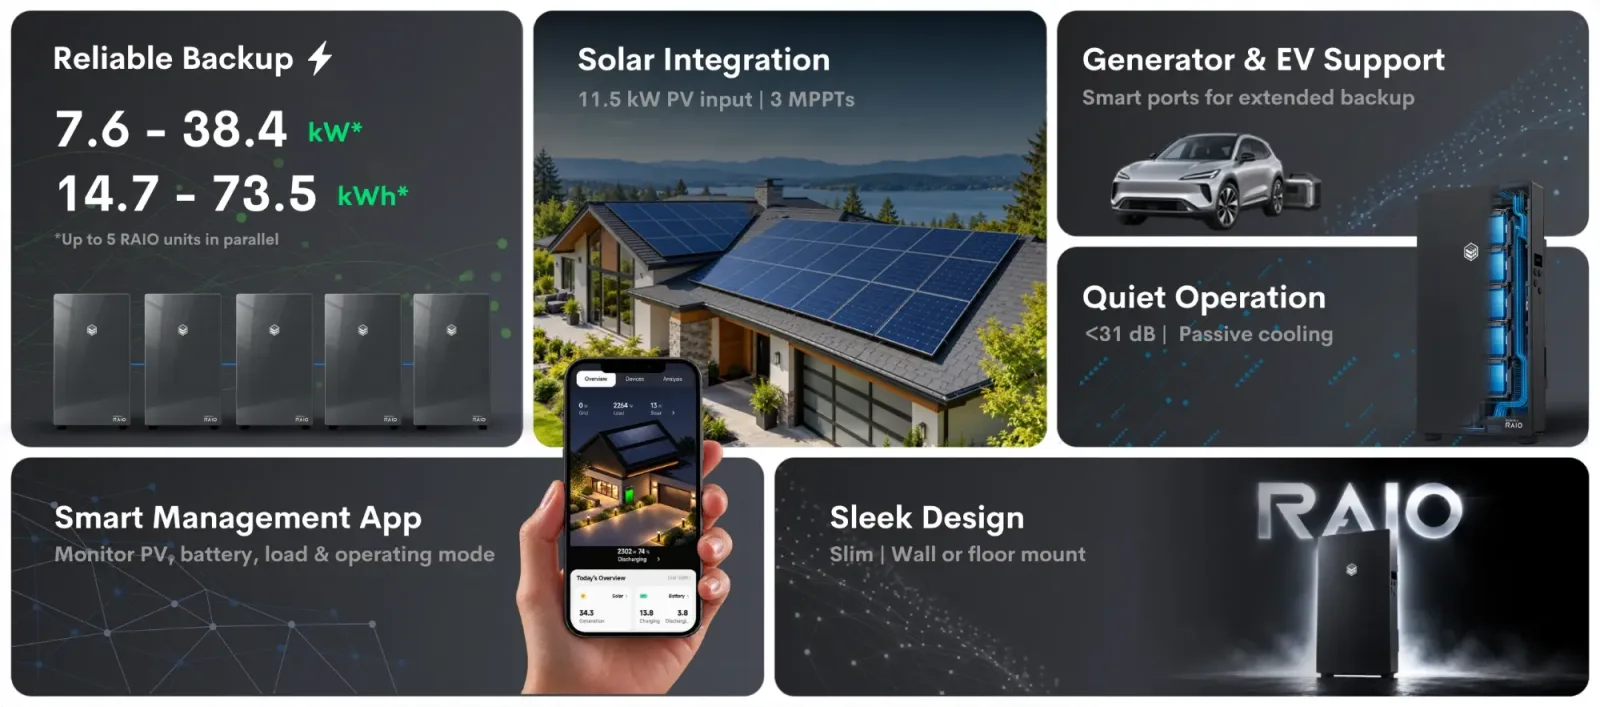
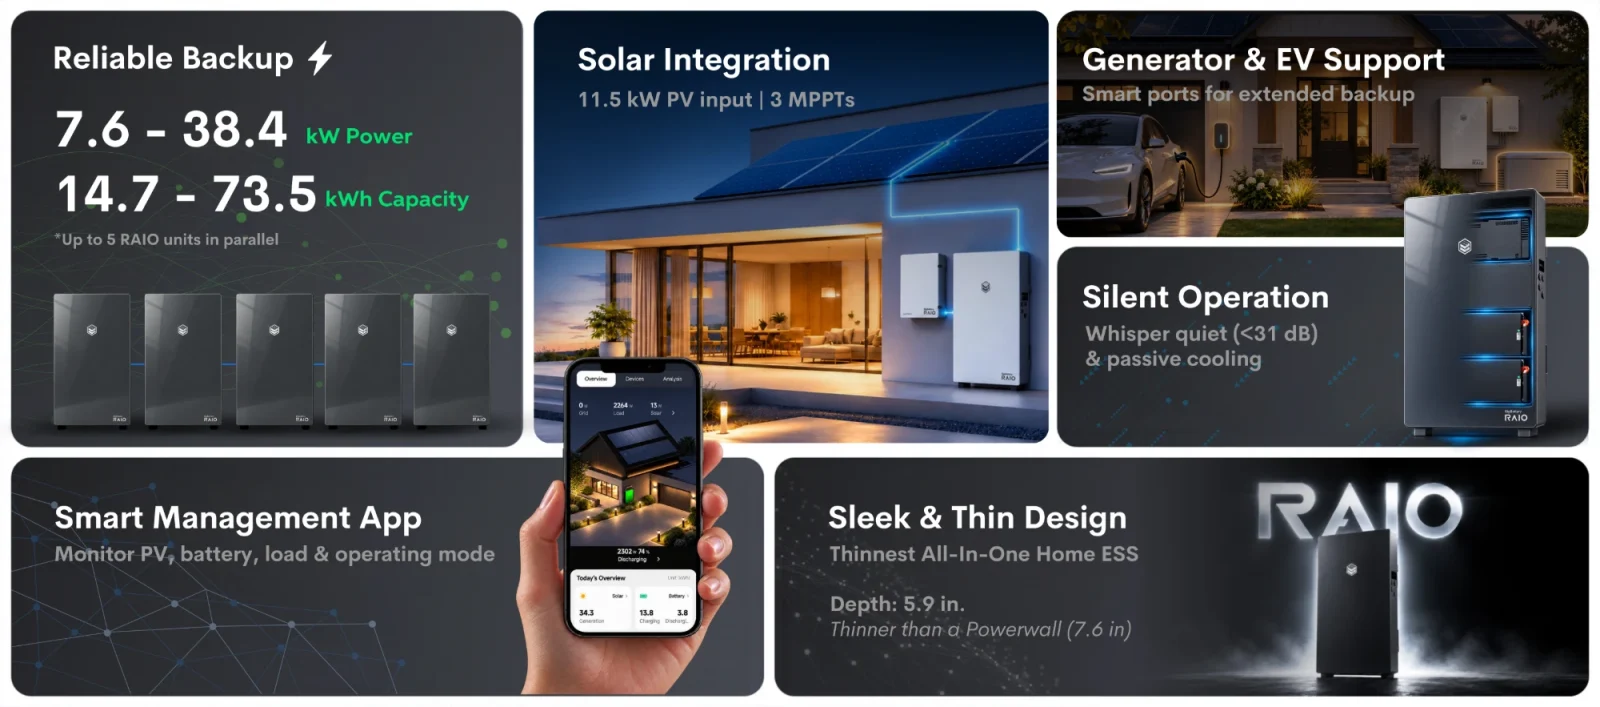
RAIO in the product gallery and the Case 02 timeline
Gray and Pearl White RAIO cards make the homepage gallery two even rows of
three, the timeline gains a sixth step for the RAIO pre-order, and the
Stealth Gray feature grid is replaced with the current version.

diff --git a/projects/nexus-line.html b/projects/nexus-line.html
@@ -86,7 +86,7 @@
         </div>
 
         <figure class="bp-tl" style="margin-inline: 0">
-          <h3 class="bp-sub">From concept to a second generation</h3>
+          <h3 class="bp-sub">From concept to the next generation</h3>
           <div class="bp-tl-track">
             <div class="bp-tl-rail" aria-hidden="true"></div>
             <div class="bp-tl-fill" aria-hidden="true"></div>
@@ -96,6 +96,7 @@
               <li class="is-on"><b>OCT 2025</b><span>NEXUS launches</span><img src="../assets/product-nexus.webp" alt="" loading="lazy"></li>
               <li class="is-on"><b>FEB 2026</b><span>APEX-6.5K and APEX-10K join as NEXUS kits</span><img src="../assets/product-apex-10k.webp" alt="" loading="lazy"></li>
               <li class="is-on"><b>SEP 2026</b><span>NEXUS 2 launches</span><img src="../assets/product-nexus-2.webp" alt="" loading="lazy"></li>
+              <li class="is-on"><b>NOV 2026</b><span>RAIO, the all-in-one, opens for pre-order</span><img src="../assets/product-raio-gray.webp" alt="" loading="lazy"></li>
             </ol>
           </div>
         </figure>
@@ -439,8 +440,8 @@
             <button type="button" aria-pressed="false" data-finish="white"><i style="background: #e9e9e6"></i>Pearl White</button>
           </div>
           <figure class="raio-swap">
-            <img class="is-on" data-finish="gray" src="../assets/raio-features-gray.webp" width="1600" height="706" loading="lazy"
-                 alt="RAIO feature grid in Stealth Gray: reliable backup, solar integration, generator and EV support, quiet operation, the app and the slim design">
+            <img class="is-on" data-finish="gray" src="../assets/raio-features-gray.webp" width="1600" height="707" loading="lazy"
+                 alt="RAIO feature grid in Stealth Gray: reliable backup from 7.6 to 38.4 kW and 14.7 to 73.5 kWh with up to five units, 11.5 kW of solar input, generator and EV support, whisper-quiet passive cooling, the management app, and a 5.9 inch depth, thinner than a Powerwall">
             <img data-finish="white" src="../assets/raio-features-white.webp" width="1600" height="706" loading="lazy"
                  alt="RAIO feature grid in Pearl White: reliable backup, solar integration, generator and EV support, silent operation, the app and the slim design">
           </figure>

diff --git a/css/blueprint.css b/css/blueprint.css
@@ -211,7 +211,7 @@
 .bp-tl-rail, .bp-tl-fill { position: absolute; left: 0; right: 0; top: 0; height: 2px; }
 .bp-tl-rail { background: var(--hairline); }
 .bp-tl-fill { background: var(--bp-1); transform: scaleX(var(--p, 1)); transform-origin: left; }
-.bp-tl ol { list-style: none; display: grid; grid-template-columns: repeat(5, minmax(0, 1fr)); }
+.bp-tl ol { list-style: none; display: grid; grid-template-columns: repeat(6, minmax(0, 1fr)); }
 .bp-tl li { position: relative; padding: 20px 16px 0 0; }
 .bp-tl li::before {
   content: "";
